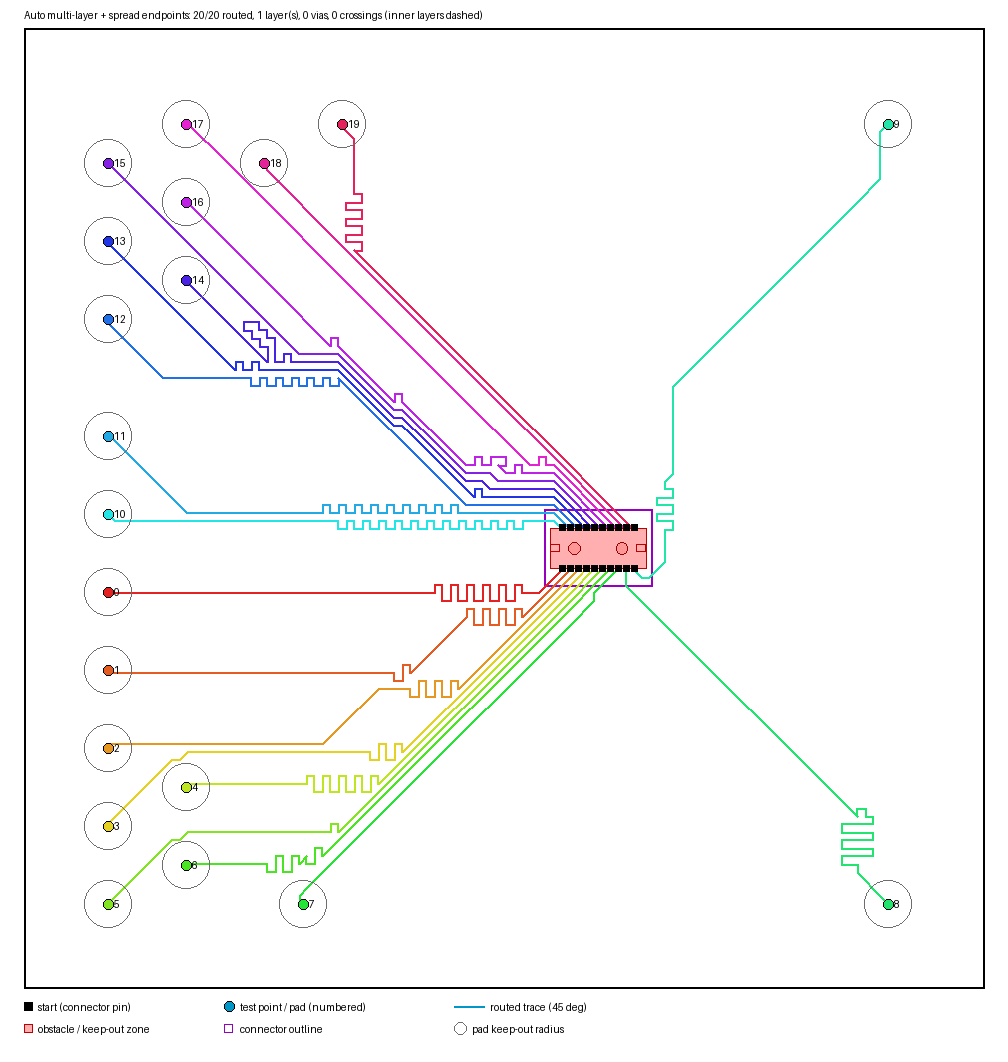
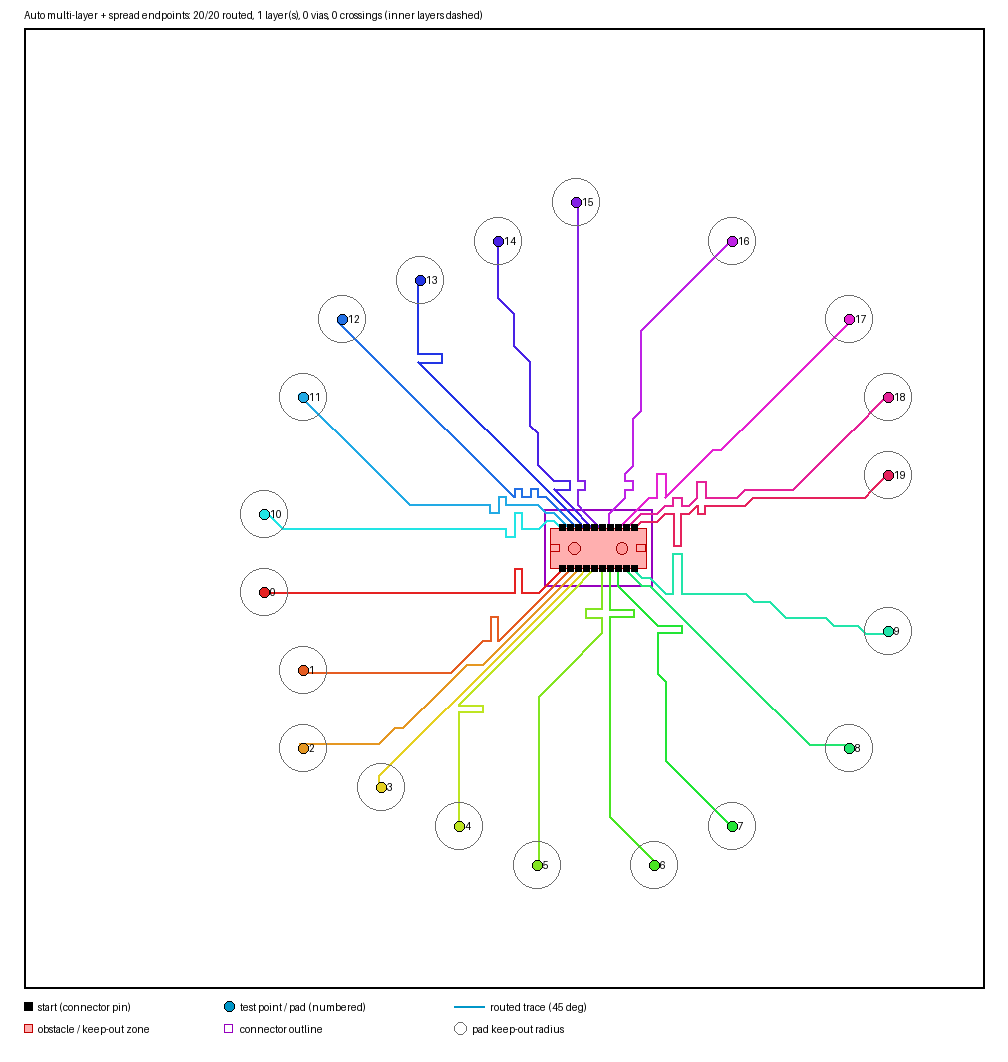
Harder-board testing: ship deeper meander + equal-length placement; reject min-via coloring
Stress-tested router improvements on shrinking boards (160 -> 95mm). Findings:
- Auto-layer router is ROBUST: routes 20/20 even at 95mm, degrading by adding layers
  (4->5), never failing.
- SHIPPED equalize_lengths deeper meander teeth (_MAX_BUMP_DEPTH): old meander bumped
  only the adjacent cell and plateaued (0.38 at any pass count); deeper teeth reach
  2-D free space and help on tight boards (95mm: 0.72->0.51), still crossing-safe.
- SHIPPED equal_length_placement: the real length lever. TPs on a common-radius ring
  -> near-equal traces -> spread 0.31->0.19 vs board-filling spread's 0.44->0.39 (~2x).
  Post-hoc meander is space-limited because short traces sit in the congested region;
  length must be controlled at placement time. scripts/route_multilayer.py --placement
  {equal_length(default),spread}; figure router_multilayer.png now 20/20, 1 layer, 0
  crossings, spread 0.20.
- REJECTED min-via layer assignment via crossing-graph coloring: worse than the greedy
  cascade (16 vias vs 12); the cascade already packs layer 0 near-maximally.
- docs/ROUTING.md 2.9 rewritten with measured results; test_equal_length_placement_*
  added (18 tests pass).

diff --git a/envs/routing.py b/envs/routing.py
@@ -27,6 +27,11 @@ CELL_SIZE = TRACE_WIDTH + TRACE_TO_TRACE_MIN  # 1.3286 mm
 # less routing room (tunable; 2–4 all route the planar board).
 TP_CLEARANCE_CELLS = 3
 
+# Max depth (cells) of a length-matching meander tooth — how far it reaches into
+# open space perpendicular to the path. Deeper teeth use 2-D free area, not just the
+# cell adjacent to the trace, so equalization works even on congested boards.
+_MAX_BUMP_DEPTH = 8
+
 
 class RoutingGrid:
 
@@ -645,18 +650,33 @@ def equalize_lengths(board, paths_world, passes=24, tol=1.0, target_mm=None):
                 if added_total < need - tol and (dr == 0) != (dc == 0) and not near_end:
                     perps = [(1, 0), (-1, 0)] if dr == 0 else [(0, 1), (0, -1)]
                     for pr, pc in perps:
-                        B = (A[0] + pr, A[1] + pc)
-                        C = (N[0] + pr, N[1] + pc)
-                        if (0 <= B[0] < rows and 0 <= B[1] < cols and
-                                0 <= C[0] < rows and 0 <= C[1] < cols and
-                                not blocked[B] and not blocked[C] and
-                                B not in occ and C not in occ and B != new[-1]):
-                            new += [B, C]
-                            occ.add(B)
-                            occ.add(C)
-                            added_total += 2.0
-                            progressed = True
-                            break
+                        # Deepest free excursion (a comb tooth out and back) — reaches
+                        # past the immediately-adjacent cell into open space, so the
+                        # meander can add length even where the path's direct neighbours
+                        # are full. Each unit of depth adds 2 cells of length.
+                        D = 0
+                        while D < _MAX_BUMP_DEPTH:
+                            t = D + 1
+                            B = (A[0] + t * pr, A[1] + t * pc)
+                            C = (N[0] + t * pr, N[1] + t * pc)
+                            if (0 <= B[0] < rows and 0 <= B[1] < cols and
+                                    0 <= C[0] < rows and 0 <= C[1] < cols and
+                                    not blocked[B] and not blocked[C] and
+                                    B not in occ and C not in occ):
+                                D = t
+                            else:
+                                break
+                        if D >= 1:
+                            d = min(D, max(1, int(np.ceil((need - added_total) / 2))))
+                            tooth = ([(A[0] + t * pr, A[1] + t * pc) for t in range(1, d + 1)] +
+                                     [(N[0] + t * pr, N[1] + t * pc) for t in range(d, 0, -1)])
+                            if tooth[0] != new[-1]:
+                                new += tooth
+                                for cc in tooth:
+                                    occ.add(cc)
+                                added_total += 2.0 * d
+                                progressed = True
+                                break
                 new.append(N)
             p = new
             if not progressed:

diff --git a/envs/board.py b/envs/board.py
@@ -357,6 +357,35 @@ def spread_placement(board: BoardSpec, num_traces: int):
     return placed
 
 
+def equal_length_placement(board: BoardSpec, num_traces: int):
+    """Spread test points on a common-radius ring around the connector (angularly
+    distributed, matched pin<->TP by angle). Because every TP is ~equidistant from
+    the connector, traces come out near-equal length, so they equalize far better
+    than a board-filling spread — the real lever for length matching, since post-hoc
+    meandering is space-limited (measured: raw spread ~0.31 vs ~0.44, equalized ~0.19
+    vs ~0.39). Non-crossing radial fan; the router assigns layers."""
+    cand, real = generate_candidate_grid(board, 6.5)
+    cand = cand[:real]
+    ccx = board.connector_x + board.connector_w / 2
+    ccy = board.connector_y + board.connector_h / 2
+    dist = np.hypot(cand[:, 0] - ccx, cand[:, 1] - ccy)
+    R = float(np.median(dist))                          # common target radius
+    chosen = []
+    for idx in np.argsort(np.abs(dist - R)):            # candidates nearest that radius
+        if len(chosen) >= num_traces:
+            break
+        if check_tp_spacing(chosen, *cand[idx]):
+            chosen.append(tuple(cand[idx]))
+    tps = sorted(chosen, key=lambda p: np.arctan2(p[1] - ccy, p[0] - ccx))
+    pins = sorted(range(num_traces),
+                  key=lambda i: np.arctan2(board.traces[i].start_y - ccy,
+                                           board.traces[i].start_x - ccx))
+    placed = [None] * num_traces
+    for k, i in enumerate(pins):
+        placed[i] = tps[k] if k < len(tps) else tps[-1]
+    return placed
+
+
 def generate_candidate_grid(board: BoardSpec, resolution: float = 6.5,
                             max_candidates: int = MAX_CANDIDATES
                             ) -> Tuple[np.ndarray, int]:

diff --git a/tests/test_pcb.py b/tests/test_pcb.py
@@ -251,6 +251,20 @@ def test_auto_layers_planar_per_layer_and_respects_nrz():
             assert not any(deep_in_nrz(x, y) for (x, y) in p)   # never through the non-routing zone
 
 
+def test_equal_length_placement_more_uniform_radius():
+    """equal_length_placement puts TPs at a common radius, so pin->connector distances
+    are more uniform than the board-filling spread — the real lever for length matching
+    (post-hoc meandering is space-limited; measured equalized spread ~0.19 vs ~0.39)."""
+    from envs.board import load_te_example, spread_placement, equal_length_placement
+    b = load_te_example(num_traces=16, seed=6)
+    ccx = b.connector_x + b.connector_w / 2
+    ccy = b.connector_y + b.connector_h / 2
+    def radius_cv(pl):
+        r = [np.hypot(x - ccx, y - ccy) for (x, y) in pl]
+        return float(np.std(r) / np.mean(r))
+    assert radius_cv(equal_length_placement(b, 16)) < radius_cv(spread_placement(b, 16))
+
+
 def test_router_output_never_crosses():
     """route_all_traces output is always planar: the octilinear router penalizes
     diagonal X-crossings and a final pass drops any net still crossing another, so

diff --git a/scripts/route_multilayer.py b/scripts/route_multilayer.py
@@ -17,7 +17,7 @@ import argparse
 sys.path.insert(0, str(pathlib.Path(__file__).resolve().parent.parent))
 
 import numpy as np
-from envs.board import load_te_example, spread_placement
+from envs.board import load_te_example, spread_placement, equal_length_placement
 from envs.routing import (route_auto_layers, equalize_lengths, count_crossings,
                           validate_routing_constraints, TP_CLEARANCE_CELLS, CELL_SIZE)
 
@@ -31,12 +31,16 @@ def main():
     ap = argparse.ArgumentParser()
     ap.add_argument("--num_traces", type=int, default=20)
     ap.add_argument("--seed", type=int, default=6)
+    ap.add_argument("--placement", choices=["equal_length", "spread"], default="equal_length")
     ap.add_argument("--out", type=str, default="eval_results/router_multilayer.png")
     a = ap.parse_args()
     n = a.num_traces
 
     board = load_te_example(num_traces=n, seed=a.seed)
-    placed = spread_placement(board, n)              # endpoints spread over the board
+    # equal_length: common-radius ring -> near-equal traces (best for length matching);
+    # spread: board-filling farthest-point (more area covered, worse length spread).
+    placed = (equal_length_placement(board, n) if a.placement == "equal_length"
+              else spread_placement(board, n))
     paths, L, layer_of, fails, lx = route_auto_layers(board, placed)
     used = sorted(set(l for l in layer_of if l >= 0))
     vias = sum(1 for l in layer_of if l >= 1)

diff --git a/docs/ROUTING.md b/docs/ROUTING.md
@@ -153,28 +153,36 @@ the lower row's wrap on every layer.)
 (`route_all_traces(..., n_starts=)`); training can use a small value and
 evaluation a larger one.
 
-### 2.9 Further improvements (roadmap)
-Done this pass: **auto multi-layer assignment** (§2.8) and **spread endpoints**.
-Other concrete, CPU-only improvements, roughly by ROI:
-- **Min-crossing / min-via layer assignment** — the greedy cascade minimizes
-  *layers* but not *inter-layer crossings/vias*; a circular (2-page) layout or a
-  swap-based local search would cut vias on dense boards.
-- **Length-aware routing** — fold the length target into A*'s cost so traces come
-  out near-equal during routing, instead of relying on the Stage-3 meander, which
-  is space-limited (the 0.37 → 0.29 residual in the multi-layer demo).
-- **Any-angle (Theta\*)** — route off the 8-way grid for shorter, smoother traces.
-- **Adaptive negotiation** — raise present/history penalties on stagnation rather
-  than a fixed schedule; resolves congestion in fewer iterations.
-- **Smarter rip-up** — when a net won't route, rip up the *most-congested* crossing
-  net and retry, instead of dropping it (current `_remove_crossings`).
-- **Differential pairs / matched buses** — route coupled nets together with matched
-  length and spacing.
-- **Manufacturability pass** — teardrops at pads, acute-angle removal, true
-  geometric DRC (vs the current grid-cell clearance).
-- **Net ordering** (the lever you flagged) — order changes the routed count by
-  several nets; the multi-start samples it and `scripts/gen_ordering_data.py`
-  distills a learned order (§4.1). Learned **layer assignment** is the natural
-  companion lever.
+### 2.9 Further improvements — what the harder-board tests showed
+Stress-tested on shrinking boards (160 → 95 mm, greedy + spread placements). Results:
+
+**Shipped (measured wins):**
+- **Auto multi-layer assignment** (§2.8) — routes **20/20 even at 95 mm**, degrading
+  gracefully by adding layers (4 → 5), never failing. Robust on every size tested.
+- **Deeper meander teeth** (`equalize_lengths`, `_MAX_BUMP_DEPTH`) — the old meander
+  bumped only the *adjacent* cell and plateaued (0.38 at any pass count); teeth that
+  reach into 2-D free space help on the tightest boards (95 mm: 0.72 → **0.51**), and
+  stay crossing-safe.
+- **Equal-length placement** (`equal_length_placement`) — the **real length lever**:
+  TPs on a common-radius ring → near-equal traces → spread 0.31 → **0.19**, vs the
+  board-filling spread's 0.44 → 0.39 (~2× better). Post-hoc meandering is space-
+  limited because the *short* traces sit in the congested region near the connector,
+  so length must be controlled at placement time.
+
+**Tested and rejected:**
+- **Min-via layer assignment by crossing-graph coloring** — *worse* than the greedy
+  cascade (16 vias vs 12 on the default board); the cascade already packs layer 0
+  near-maximally. Not shipped.
+
+**Still open (untested ideas, roughly by ROI):**
+- **Any-angle (Theta\*)** routing for shorter traces;
+- **Adaptive negotiation** (raise penalties on stagnation);
+- **Smarter rip-up** (rip the most-congested crossing net vs dropping it);
+- **Differential pairs / matched buses**; **manufacturability** (teardrops, acute-angle
+  removal, true geometric DRC);
+- **Net ordering** (the lever you flagged) + learned **layer assignment** — order
+  shifts the routed count by several nets; `scripts/gen_ordering_data.py` distills a
+  learned order (§4.1).
 
 ---
 